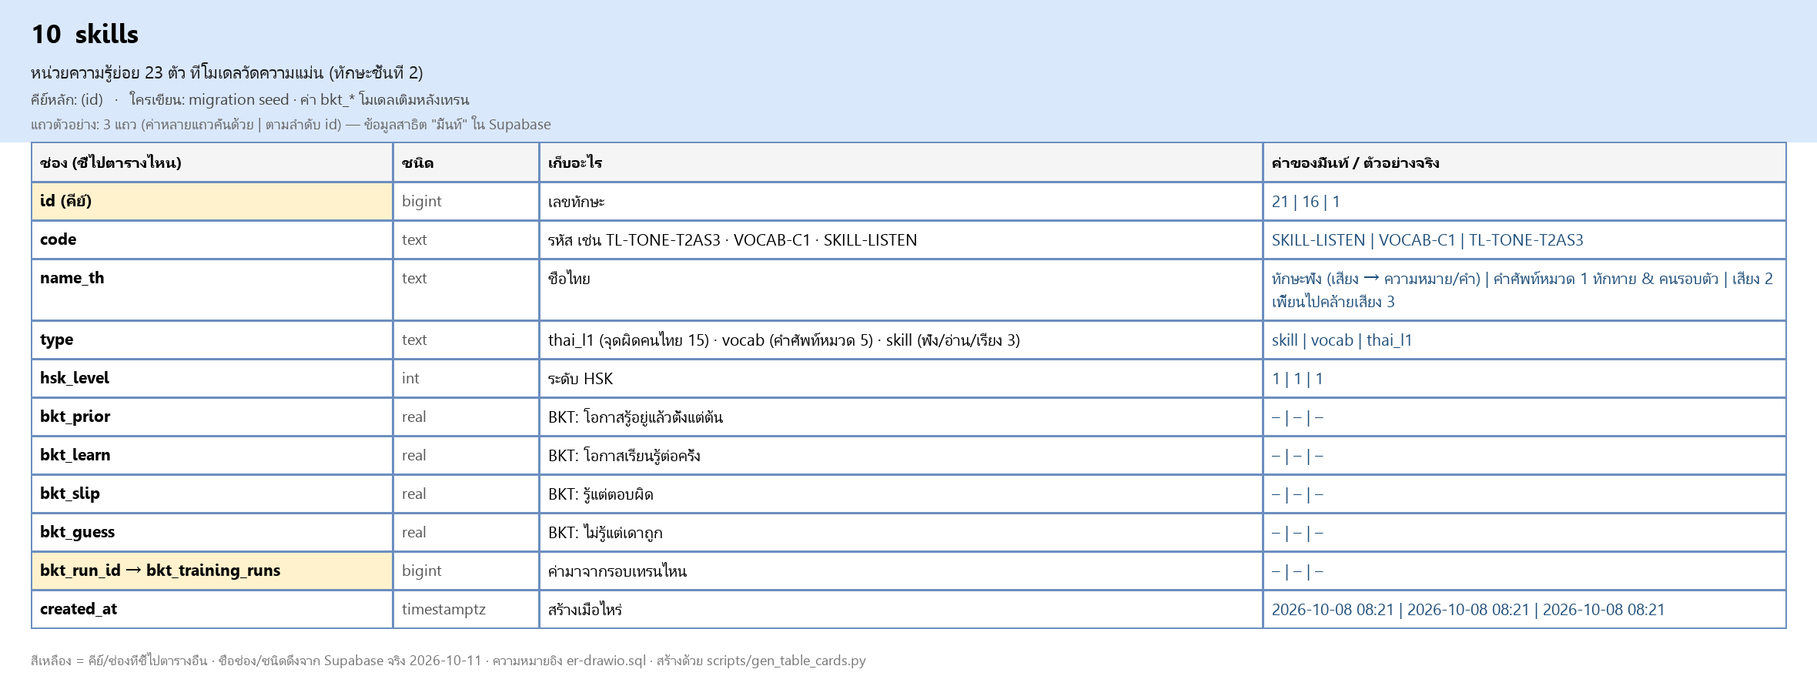
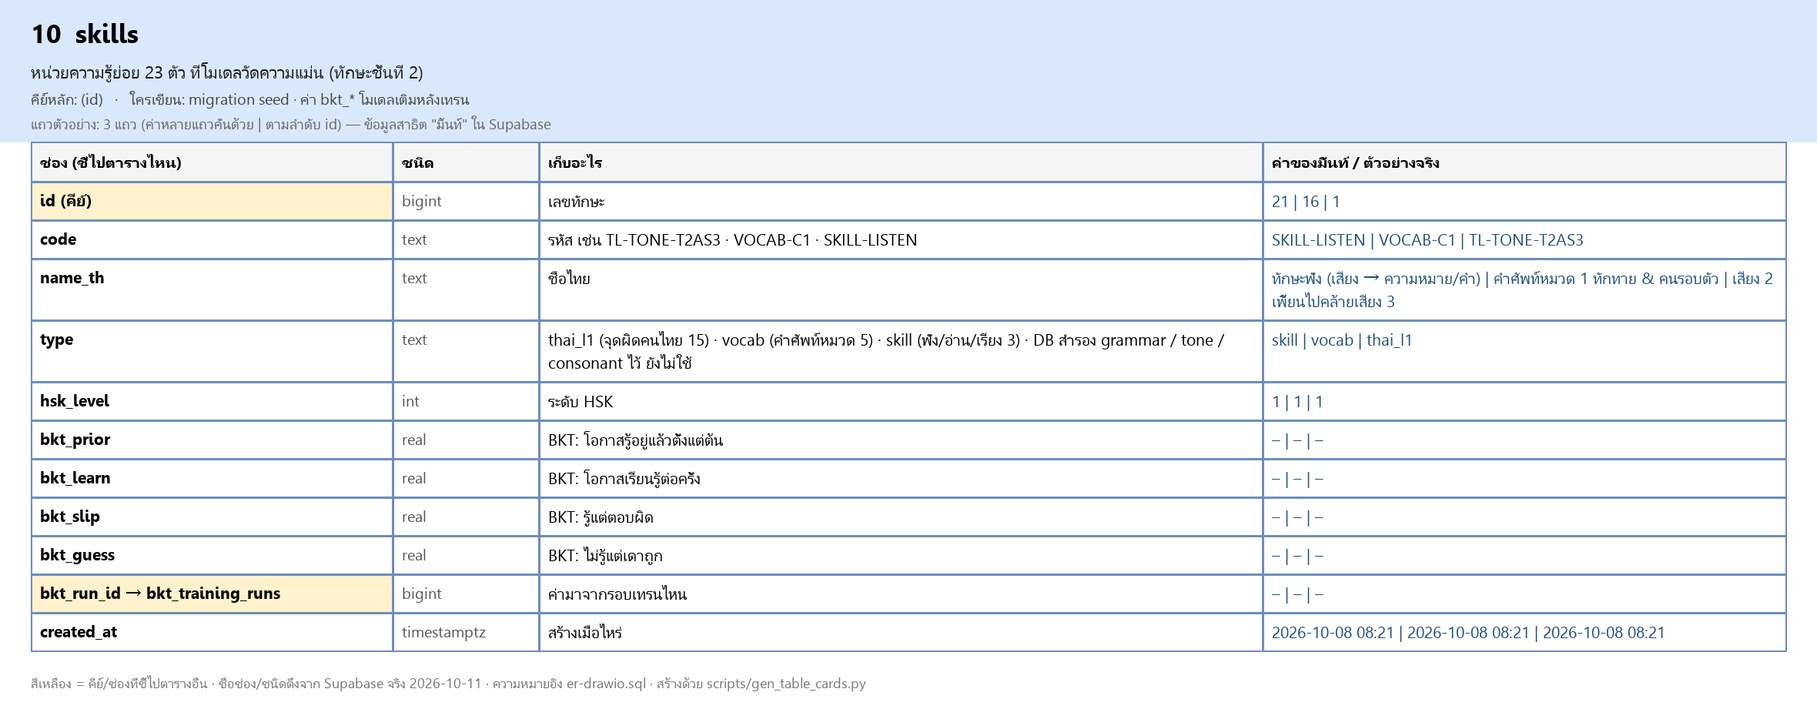
การ์ดตาราง: แก้ 18 จุดจากการตรวจเทียบ er-drawio.sql/migration (หน้าเลือกหมวดยังอ่านจาก categories.ts · QZ-12 ปลดล็อกควิซ · pre/post เซิร์ฟเวอร์เท่านั้น · review_states server-wins ฯลฯ)

Changed region(s): [[0.0, 0.0929, 1.0, 0.9602], [0.0309, 0.031, 0.0928, 0.0619]]

diff --git a/scripts/gen_table_cards.py b/scripts/gen_table_cards.py
@@ -23,63 +23,63 @@ PURPOSE = {
     "categories":        ("รายชื่อหมวด 5 หมวด (อาจารย์: cat)", "migration สร้างให้ · ไม่มีใครเพิ่มแถวในแอป · word_count DB นับเอง"),
     "words":             ("คำศัพท์ HSK 1 ทั้ง 300 คำ + เสียง (อาจารย์: word + voice · type)", "ทีมใส่จากคลังคำ · ตะวันตรวจคำแปล · แอปอ่านอย่างเดียว"),
     "users":             ("โปรไฟล์ผู้เรียน 1 คน = 1 แถว (อาจารย์: U)", "DB สร้างแถวเองตอนสมัคร (trigger) · ผู้เรียนแก้ได้เฉพาะช่องโปรไฟล์ · role/cohort แอดมินตั้ง"),
-    "category_progress": ("คน × หมวด — ใครเรียนหมวดไหนไปถึงไหน", "แอป/เซิร์ฟเวอร์เขียน · ช่องควิซ (quiz_*) เซิร์ฟเวอร์เท่านั้น (QZ-12)"),
-    "review_states":     ("คน × คำ — ตารางนัดทวนของ FSRS", "แอปเขียนทุกครั้งที่ทวนคำ (ค่าจากสูตร FSRS)"),
-    "sessions":          ("1 รอบกิจกรรม = 1 แถว (ฝึก / ควิซ / pre / post)", "แอปเปิด-ปิดรอบ · คะแนนรอบควิซ/pre/post เซิร์ฟเวอร์เขียน (ตามแผน 0007) · attempt_no + finished_at DB เติมเอง"),
-    "items":             ("คลังข้อสอบ (อาจารย์: Lis — ตาราง Ans · V1 · A1–A4)", "AI/แอดมินสร้าง (status draft→pending) · ตะวันอนุมัติเท่านั้น (RO-03) · แอปเสิร์ฟเฉพาะ approved"),
+    "category_progress": ("คน × หมวด — ใครเรียนหมวดไหนไปถึงไหน", "แอปเขียนแถวของตัวเอง (RLS) · quiz_best_score / quiz_passed_at / status = quiz_passed — DB กัน client เขียน (trigger QZ-12) · เซิร์ฟเวอร์เป็นคนเติม (ตามแผน 0007)"),
+    "review_states":     ("คน × คำ — ตารางนัดทวนของ FSRS", "แอปซิงก์ขึ้นมาหลังทวนคำ (ค่าจากสูตร FSRS ในเครื่อง) · เซิร์ฟเวอร์เป็นตัวจริง ทับค่าแอปได้ (server-wins) · วันนี้ยังอยู่ในเครื่อง รอซิงก์ (FS-05)"),
+    "sessions":          ("1 รอบกิจกรรม = 1 แถว (ฝึก / ทวน / ควิซ / pre / post)", "แอปเปิด-ปิดได้เฉพาะรอบฝึก/ทวน/ควิซ · รอบ pre/post เซิร์ฟเวอร์สร้าง-ปิด-ให้คะแนนเท่านั้น (RLS แล้ว) · คะแนนควิซวันนี้แอปยังเขียนได้ — ให้เซิร์ฟเวอร์เขียน = แผน 0007 · attempt_no + finished_at DB เติมเอง"),
+    "items":             ("คลังข้อสอบ (อาจารย์: Lis — ตาราง Ans · V1 · A1–A4)", "AI/แอดมินสร้างผ่านเซิร์ฟเวอร์ (เริ่ม draft) · อนุมัติได้เฉพาะ approver = ตะวัน หรือผู้รับโอนสิทธิ์ — DB ตรวจให้ (RO-03) · แอปอ่านอย่างเดียว เฉพาะ approved"),
     "item_skills":       ("Q-matrix — ข้อไหนวัดทักษะอะไร (ข้อเดียวหลายป้ายได้)", "คนออกข้อติดป้ายตอนสร้าง/อนุมัติข้อ"),
-    "attempts":          ("ทุกคำตอบ/ทุกการเห็นคำ 1 เหตุการณ์ = 1 แถว (อาจารย์: ตารางผล U · C · Lis · # → 1/0)", "แอป/API จดอย่างเดียว · ห้ามแก้ ห้ามลบ (BK-01) · อาหารของโมเดล BKT"),
+    "attempts":          ("ทุกคำตอบ/ทุกการเห็นคำ 1 เหตุการณ์ = 1 แถว (อาจารย์: ตารางผล U · C · Lis · # → 1/0)", "แอป/API จดอย่างเดียว · ห้ามแก้ ห้ามลบ (BK-01 — trigger กันทุก role) · อาหารของโมเดล BKT (โมเดลอ่านเฉพาะแถว graded ที่ไม่ใช่ pre/post)"),
     "skills":            ("หน่วยความรู้ย่อย 23 ตัว ที่โมเดลวัดความแม่น (ทักษะชั้นที่ 2)", "migration seed · ค่า bkt_* โมเดลเติมหลังเทรน"),
 }
 
 MEANINGS = {
     "categories": {
-        "id": "เลขหมวด 1–5 (DB บังคับช่วง)", "name_th": "ชื่อหมวดที่โชว์บนหน้าเลือกหมวด", "summary_th": "คำอธิบายสั้นว่าหมวดนี้เรียนอะไร",
+        "id": "เลขหมวด 1–5 (DB บังคับช่วง)", "name_th": "ชื่อหมวด (ตั้งใจให้หน้าเลือกหมวดอ่านจากนี่ — วันนี้เว็บยังใช้สำเนาในโค้ด categories.ts แก้ทีต้อง deploy)", "summary_th": "คำอธิบายสั้นว่าหมวดนี้เรียนอะไร",
         "difficulty_order": "ลำดับแนะนำ ง่าย → ยาก (PA-09)", "word_count": "จำนวนคำในหมวด — DB นับจาก words ให้เองด้วย trigger",
         "created_at": "สร้างแถวเมื่อไหร่", "updated_at": "แก้ล่าสุดเมื่อไหร่ (DB เติมเอง)"},
     "words": {
         "id": "เลขประจำคำ", "hanzi": "ตัวจีน (ห้ามซ้ำ)", "traditional": "ตัวเต็ม (ถ้ามี)", "pinyin": "พินอินพร้อมวรรณยุกต์", "pos": "ชนิดคำ (เป็นรายการ)",
         "meaning_en": "ความหมายอังกฤษจาก CC-CEDICT", "meaning_th": "คำแปลไทย (AI แปล · ตะวันตรวจ)", "th_reviewed": "ตะวันตรวจคำแปลแล้วหรือยัง (ช่องเดิม — จะใช้ review_status แทน)",
-        "review_status": "สถานะตรวจ draft / pending / approved / rejected / suspended", "reviewed_by": "ใครตรวจ", "reviewed_at": "ตรวจเมื่อไหร่",
+        "review_status": "สถานะตรวจ draft / pending / approved / rejected / suspended (แผน m7-2 — วันนี้ migration เติมจาก th_reviewed ครั้งเดียว โค้ดตรวจยังเขียน th_reviewed)", "reviewed_by": "ใครตรวจ", "reviewed_at": "ตรวจเมื่อไหร่",
         "hsk_level": "ระดับ HSK 1 หรือ 2", "category": "อยู่หมวดไหน (1–5)", "audio_path": "ชื่อไฟล์เสียงใน Storage เช่น words/147.mp3",
         "image_path": "รูปประกอบคำ (แผน)", "etymology_image_path": "รูปที่มาของตัวอักษร (แผน)", "etymology_story_th": "เรื่องเล่าที่มาของตัวอักษร (แผน)",
         "wordlist_version": "มาจากคลังคำเวอร์ชันไหน", "created_at": "สร้างเมื่อไหร่", "updated_at": "แก้ล่าสุดเมื่อไหร่"},
     "users": {
         "id": "รหัสผู้ใช้ (uuid) = รหัสบัญชีล็อกอินของ Supabase Auth", "display_name": "ชื่อที่โชว์", "role": "learner / admin / approver (ตะวัน = approver)",
-        "pdpa_consent_at": "ยอมรับ PDPA เมื่อไหร่", "consent_version": "ยอมรับข้อความ consent ฉบับไหน", "target_level": "เป้าสอบ: 1 = HSK1 · 2 = HSK2 · 0 = ยังไม่คิดเรื่องสอบ",
+        "pdpa_consent_at": "ยอมรับ PDPA เมื่อไหร่", "consent_version": "ยอมรับข้อความ consent ฉบับไหน", "target_level": "เป้าสอบ: 1 = HSK1 · 2 = HSK2 · 0 = ยังไม่คิดเรื่องสอบ · ว่าง = ข้ามคำถาม (ON-02 ①)",
         "exam_date": "วันสอบที่ตั้งใจ", "self_level": "ประเมินตัวเอง อ่านจีนออกไหม (cant_read / some_basics / studied_before / unsure)",
         "audio_rate": "ความเร็วเสียงที่ตั้งไว้", "pinyin_hidden": "ซ่อนพินอินไหม (ค่าตั้งของผู้ใช้)", "cohort": "trial = ผู้เข้าร่วมทดลอง · team = บัญชีทีม/สาธิต (ไม่ปนผลวิจัย)",
         "trial_started_at": "เริ่มทดลองเมื่อไหร่", "anonymized_at": "ถอนความยินยอม → ล้างข้อมูลส่วนตัวเมื่อไหร่ (ON-05)", "created_at": "สมัครเมื่อไหร่", "updated_at": "แก้ล่าสุดเมื่อไหร่"},
     "category_progress": {
         "user_id": "คนไหน", "category": "หมวดไหน", "started_at": "เริ่มหมวดนี้เมื่อไหร่", "words_learned": "เรียนไปกี่คำ (นับจาก review_states)",
         "sentences_passed": "ผ่านกี่ประโยค (นับจาก sentence_states)", "quiz_best_score": "คะแนนควิซดีสุด (เซิร์ฟเวอร์เขียน)",
-        "quiz_passed_at": "ผ่านควิซเมื่อไหร่ → ปลดล็อกหมวดถัดไป (QZ-12)", "status": "not_started / learning / quiz_passed"},
+        "quiz_passed_at": "ผ่านควิซ ≥7/10 ครั้งแรกเมื่อไหร่ → ปลดล็อก “ควิซ” หมวดถัดไป (QZ-12 · การเรียน/ฝึกเปิดเสรีทุกหมวด)", "status": "not_started / learning / quiz_passed"},
     "review_states": {
         "user_id": "คนไหน", "word_id": "คำไหน", "difficulty": "ความยากของคำนี้สำหรับคนนี้ (FSRS)", "stability": "ความคงทนของความจำ — ประมาณกี่วันก่อนลืม (FSRS)",
         "due": "นัดทวนครั้งถัดไปเมื่อไหร่", "last_review": "ทวนล่าสุดเมื่อไหร่", "elapsed_days": "ห่างจากทวนครั้งก่อนกี่วัน", "scheduled_days": "ตั้งนัดไว้กี่วัน",
         "learning_steps": "อยู่ขั้นไหนของช่วงกำลังเรียน", "reps": "ทวนมาแล้วกี่ครั้ง", "lapses": "ลืมแล้วกี่ครั้ง", "state": "new / learning / review / relearning"},
     "sessions": {
-        "id": "เลขรอบ", "user_id": "ใครทำ", "kind": "ชนิดรอบ: pretest / posttest / quiz / practice / review", "form_id": "ชุดข้อสอบ (เฉพาะ pre/post)",
+        "id": "เลขรอบ", "user_id": "ใครทำ", "kind": "ชนิดรอบ: pretest / posttest / quiz / practice / review (mock = ค่าสงวน ยังไม่ใช้)", "form_id": "ชุดข้อสอบ (เฉพาะ pre/post)",
         "category": "หมวดไหน (ว่างถ้า pre/post)", "mode": "โหมดฝึก: listen / read / order / match", "attempt_no": "ครั้งที่เท่าไหร่ของ (คน · ชนิด · หมวด) — DB เติมเอง",
-        "started_at": "เริ่มเมื่อไหร่", "finished_at": "จบเมื่อไหร่ (DB เติมเองเมื่อ done)", "status": "running / done / abandoned (done แล้วแก้กลับไม่ได้)",
+        "started_at": "เริ่มเมื่อไหร่", "finished_at": "จบเมื่อไหร่ (DB เติมเองเมื่อ done/abandoned ถ้าแอปไม่ส่งมา)", "status": "running / done / abandoned (done หรือ abandoned = ปลายทาง แก้กลับไม่ได้)",
         "total": "จำนวนข้อในรอบ", "score": "ตอบถูกกี่ข้อ", "score_listening": "pre/post: คะแนนฟัง (เต็ม 100)", "score_reading": "pre/post: คะแนนอ่าน (เต็ม 100)",
         "score_total": "pre/post: รวม (เต็ม 200)", "passed": "pre/post: ผ่านเกณฑ์ 120 ไหม", "detail": "รายละเอียดอื่น (json) เช่น เวลาต่อพาร์ต"},
     "items": {
         "id": "เลขข้อ", "module": "ด้าน: listening / reading / vocab / grammar / minimal_pair", "item_type": "รูปแบบข้อ: mcq / match / true_false / pick_pinyin / listen_pick_image / word_order",
-        "category": "ข้อของหมวดไหน", "stem": "โจทย์ (ข้อฟังห้ามโชว์ตัวจีนของเสียง — PR-02)", "choices": "ตัวเลือก (json)", "answer_key": "เฉลยตายตัว — ผู้เรียนมองไม่เห็น (MK-04)",
+        "category": "ข้อของหมวดไหน", "stem": "โจทย์ (ข้อฟัง: ห้ามใส่ตัวจีน/พินอิน/ข้อความของสิ่งที่ให้ฟัง — PR-02)", "choices": "ตัวเลือก (json)", "answer_key": "เฉลยตายตัว — ผู้เรียนมองไม่เห็น (MK-04)",
         "distractor_rationale": "ตัวลวงแต่ละตัวดักจุดผิดอะไร (json · ใช้วิจัย)", "audio_path": "ไฟล์เสียงของข้อ", "hsk_level": "ระดับ HSK",
         "status": "draft / pending / approved / rejected / suspended — เสิร์ฟเฉพาะ approved", "reject_reason": "เหตุผลที่ไม่อนุมัติ", "created_by": "ใครสร้างข้อ",
-        "approved_by": "ใครอนุมัติ (ตะวันเท่านั้น — RO-03)", "approved_at": "อนุมัติเมื่อไหร่", "created_at": "สร้างเมื่อไหร่", "updated_at": "แก้ล่าสุดเมื่อไหร่"},
+        "approved_by": "ใครอนุมัติ — ต้องเป็น role approver (ตะวัน) หรือผู้รับโอนสิทธิ์ใน approval_transfers · DB ตรวจให้ + เติม approved_at เอง (RO-03)", "approved_at": "อนุมัติเมื่อไหร่", "created_at": "สร้างเมื่อไหร่", "updated_at": "แก้ล่าสุดเมื่อไหร่"},
     "item_skills": {"item_id": "ข้อไหน", "skill_id": "วัดทักษะ (หน่วยความรู้ย่อย) อะไร"},
     "attempts": {
         "id": "เลขเหตุการณ์", "client_attempt_id": "รหัสที่แอปตั้งเอง — กันบันทึกซ้ำตอนซิงก์ออฟไลน์ (OF-01)", "user_id": "ใครตอบ", "session_id": "รอบไหน",
         "event_type": "graded = ตอบแล้วตรวจได้ · exposure = แค่เห็น/ฟัง · asr_hint = พูดตาม (แผน)", "item_id": "ข้อจากคลังข้อสอบ", "word_id": "ข้อที่ปั้นสดจากคำ",
         "sentence_id": "ข้อที่ปั้นจากประโยค", "skill_id": "ป้ายทักษะ ณ เวลาตอบ (โมเดลนับถูก/ผิดต่อป้ายนี้)",
         "generator": "กิจกรรมที่ทำ: flashcard / listen_mc4 / read_mc4 / match / order / ear_game / speak_along", "answer": "สิ่งที่ตอบ (json)",
-        "is_correct": "ถูก/ผิด (ว่างถ้าเป็น exposure)", "answered_at": "ตอบเมื่อไหร่", "time_spent_ms": "ใช้เวลากี่มิลลิวินาที", "app_version": "เวอร์ชันแอปตอนตอบ",
-        "context": "practice / review / quiz / pretest / posttest — DB บังคับให้ตรง sessions.kind"},
+        "is_correct": "ถูก/ผิด — มีค่าเฉพาะ graded · ว่างถ้าเป็น exposure หรือ asr_hint (ผลพูดตามไม่ตัดสินถูก/ผิด)", "answered_at": "ตอบเมื่อไหร่", "time_spent_ms": "ใช้เวลากี่มิลลิวินาที", "app_version": "เวอร์ชันแอปตอนตอบ",
+        "context": "practice / review / quiz / pretest / posttest — ถ้ามีรอบ DB บังคับให้ตรง sessions.kind · แอปจดได้แค่ practice/review/quiz · pre/post เซิร์ฟเวอร์จด"},
     "skills": {
-        "id": "เลขทักษะ", "code": "รหัส เช่น TL-TONE-T2AS3 · VOCAB-C1 · SKILL-LISTEN", "name_th": "ชื่อไทย", "type": "thai_l1 (จุดผิดคนไทย 15) · vocab (คำศัพท์หมวด 5) · skill (ฟัง/อ่าน/เรียง 3)",
+        "id": "เลขทักษะ", "code": "รหัส เช่น TL-TONE-T2AS3 · VOCAB-C1 · SKILL-LISTEN", "name_th": "ชื่อไทย", "type": "thai_l1 (จุดผิดคนไทย 15) · vocab (คำศัพท์หมวด 5) · skill (ฟัง/อ่าน/เรียง 3) · DB สำรอง grammar / tone / consonant ไว้ ยังไม่ใช้",
         "hsk_level": "ระดับ HSK", "bkt_prior": "BKT: โอกาสรู้อยู่แล้วตั้งแต่ต้น", "bkt_learn": "BKT: โอกาสเรียนรู้ต่อครั้ง", "bkt_slip": "BKT: รู้แต่ตอบผิด",
         "bkt_guess": "BKT: ไม่รู้แต่เดาถูก", "bkt_run_id": "ค่ามาจากรอบเทรนไหน", "created_at": "สร้างเมื่อไหร่"},
 }

diff --git a/docs/07_คลังความรู้-Obsidian/90-บันทึกงาน/2026-10-11.md b/docs/07_คลังความรู้-Obsidian/90-บันทึกงาน/2026-10-11.md
@@ -21,6 +21,7 @@ updated: 2026-10-11
 - บอลงง "ไม่รู้จะไล่ตารางยังไง" → เปลี่ยนวิธี: **ไล่ตามการกดของมิ้นท์ในเว็บจริง** (intelligent-chinese-tutoring-system.vercel.app) ทุกหน้าถาม 2 ข้อ "อ่านจากตารางไหน / กดแล้วจดลงตารางไหน" · กฎจำง่าย: ของที่ทุกคนเห็นเหมือนกัน = ตารางเนื้อหา · ของที่ต่างตามคน = ตาราง "คน × อะไร"
 - บอลไล่หน้าเลือกหมวดได้ถูก (categories + category_progress) · แก้ 3 จุดก่อนพูดจริง: ชื่อ `category_progress` · "กี่คำ" ไม่ใช่ "กี่คน" · หลอด = 2 ตาราง (words_learned / word_count) · ต้องพูดตรงว่าแอปวันนี้ยังเก็บความก้าวหน้าในเครื่อง
 - เพิ่มชั้นทักษะที่ 2 ลงรูปเส้นทางมิ้นท์ (attempts.skill_id · skills · item_skills) ตอบ "รู้ได้ไงว่าวัดทักษะไหน"
+- **ตรวจการ์ดด้วย AI 5 ตัว (เทียบ er-drawio.sql / migration 0005 / สมุดกฎ):** 113 ช่องถูก · 18 จุดปรับ (4 ทำให้เข้าใจผิด · 14 เล็ก) — แก้หมดแล้ว · ที่สำคัญ: ① **หน้าเลือกหมวดวันนี้ยังอ่านชื่อหมวดจากสำเนาในโค้ด `categories.ts` ไม่ใช่จากตาราง categories** (ตารางคือแผน — ต้องบอกอาจารย์ตามจริง) ② QZ-12 ปลดล็อก "ควิซ" หมวดถัดไป ไม่ใช่ตัวหมวด (เรียน/ฝึกเปิดเสรี) ③ รอบ pre/post เซิร์ฟเวอร์สร้าง-ปิดเท่านั้น (RLS แล้ว) แต่คะแนนควิซแอปยังเขียนได้จนกว่า 0007 ④ review_states วันนี้ยังอยู่ localStorage · เซิร์ฟเวอร์เป็นตัวจริง (server-wins) · ที่เหลือ: done/abandoned = ปลายทางทั้งคู่ · is_correct ว่างทั้ง exposure/asr_hint · approver = ตะวันหรือผู้รับโอนสิทธิ์ · target_level ว่าง = ข้าม · skills.type มีค่าสำรอง
 - บอลขอ "รูปว่าตารางเก็บอะไรบ้าง" → `scripts/gen_table_cards.py` → `docs/08_สเปค-พัฒนา/การ์ดตาราง/01–10.png`: ชื่อช่อง/ชนิด/คีย์/FK ดึงจาก information_schema จริง · ความหมายไทยอยู่ใน MEANINGS ของสคริปต์ · ค่าจริงของมิ้นท์ต่อช่อง (หลายแถวคั่น |) · regenerate ได้เมื่อ schema เปลี่ยน
 
 เกี่ยวข้อง: [[2026-10-08]] · [[TODO-migration-0007]] · [[DATABASE-ER]]
